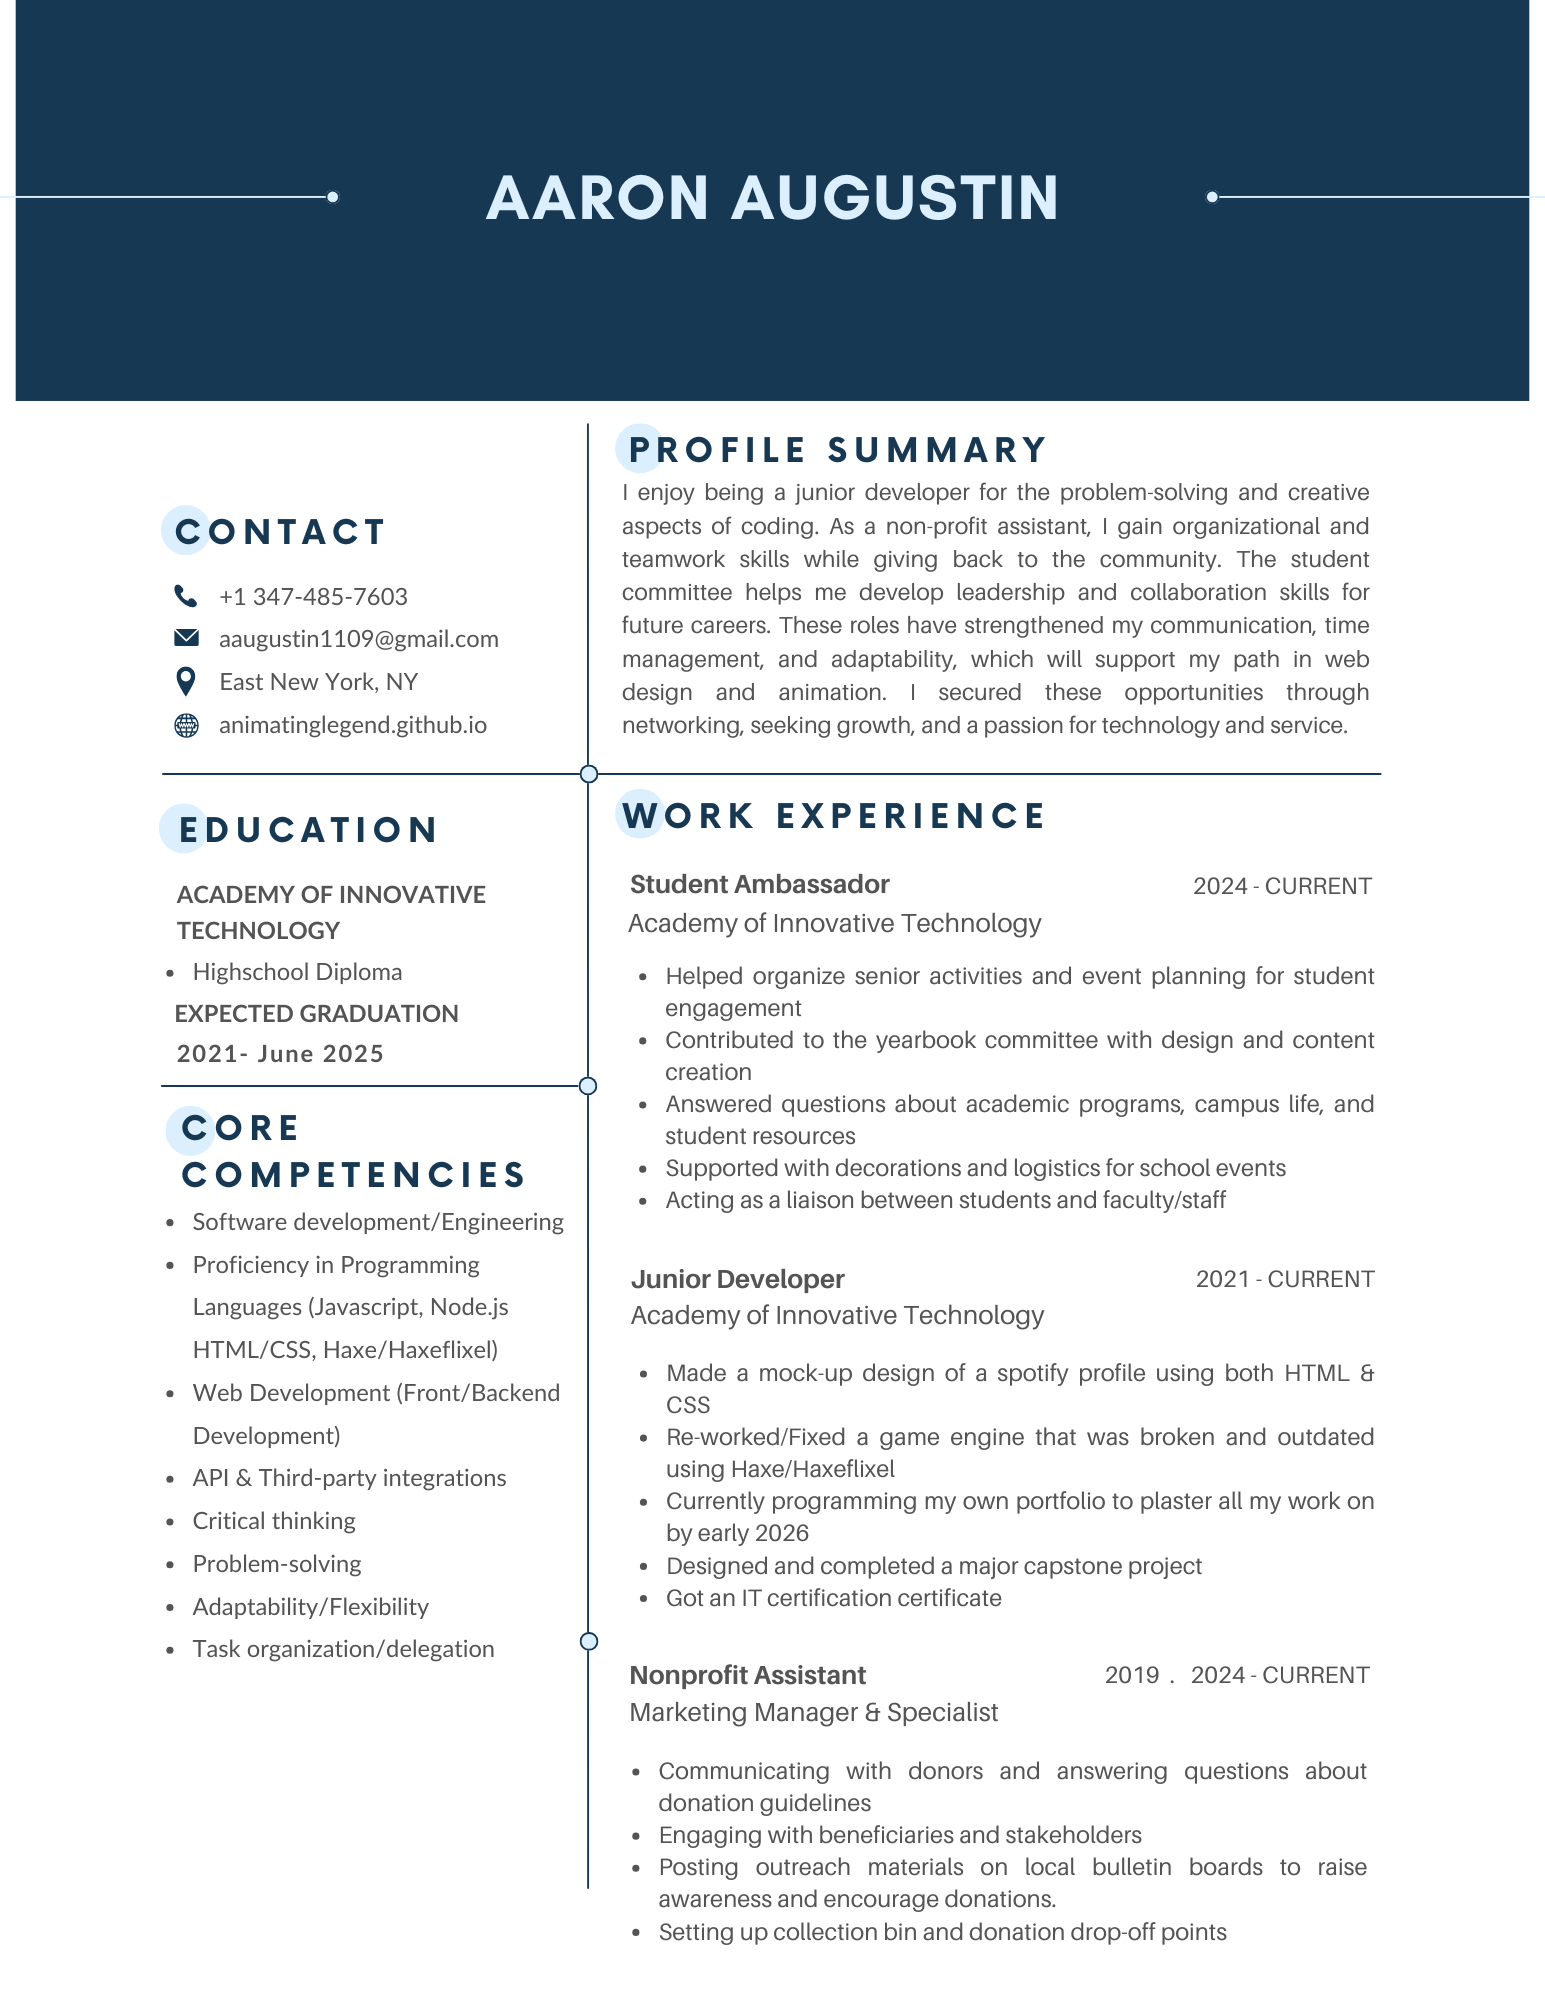
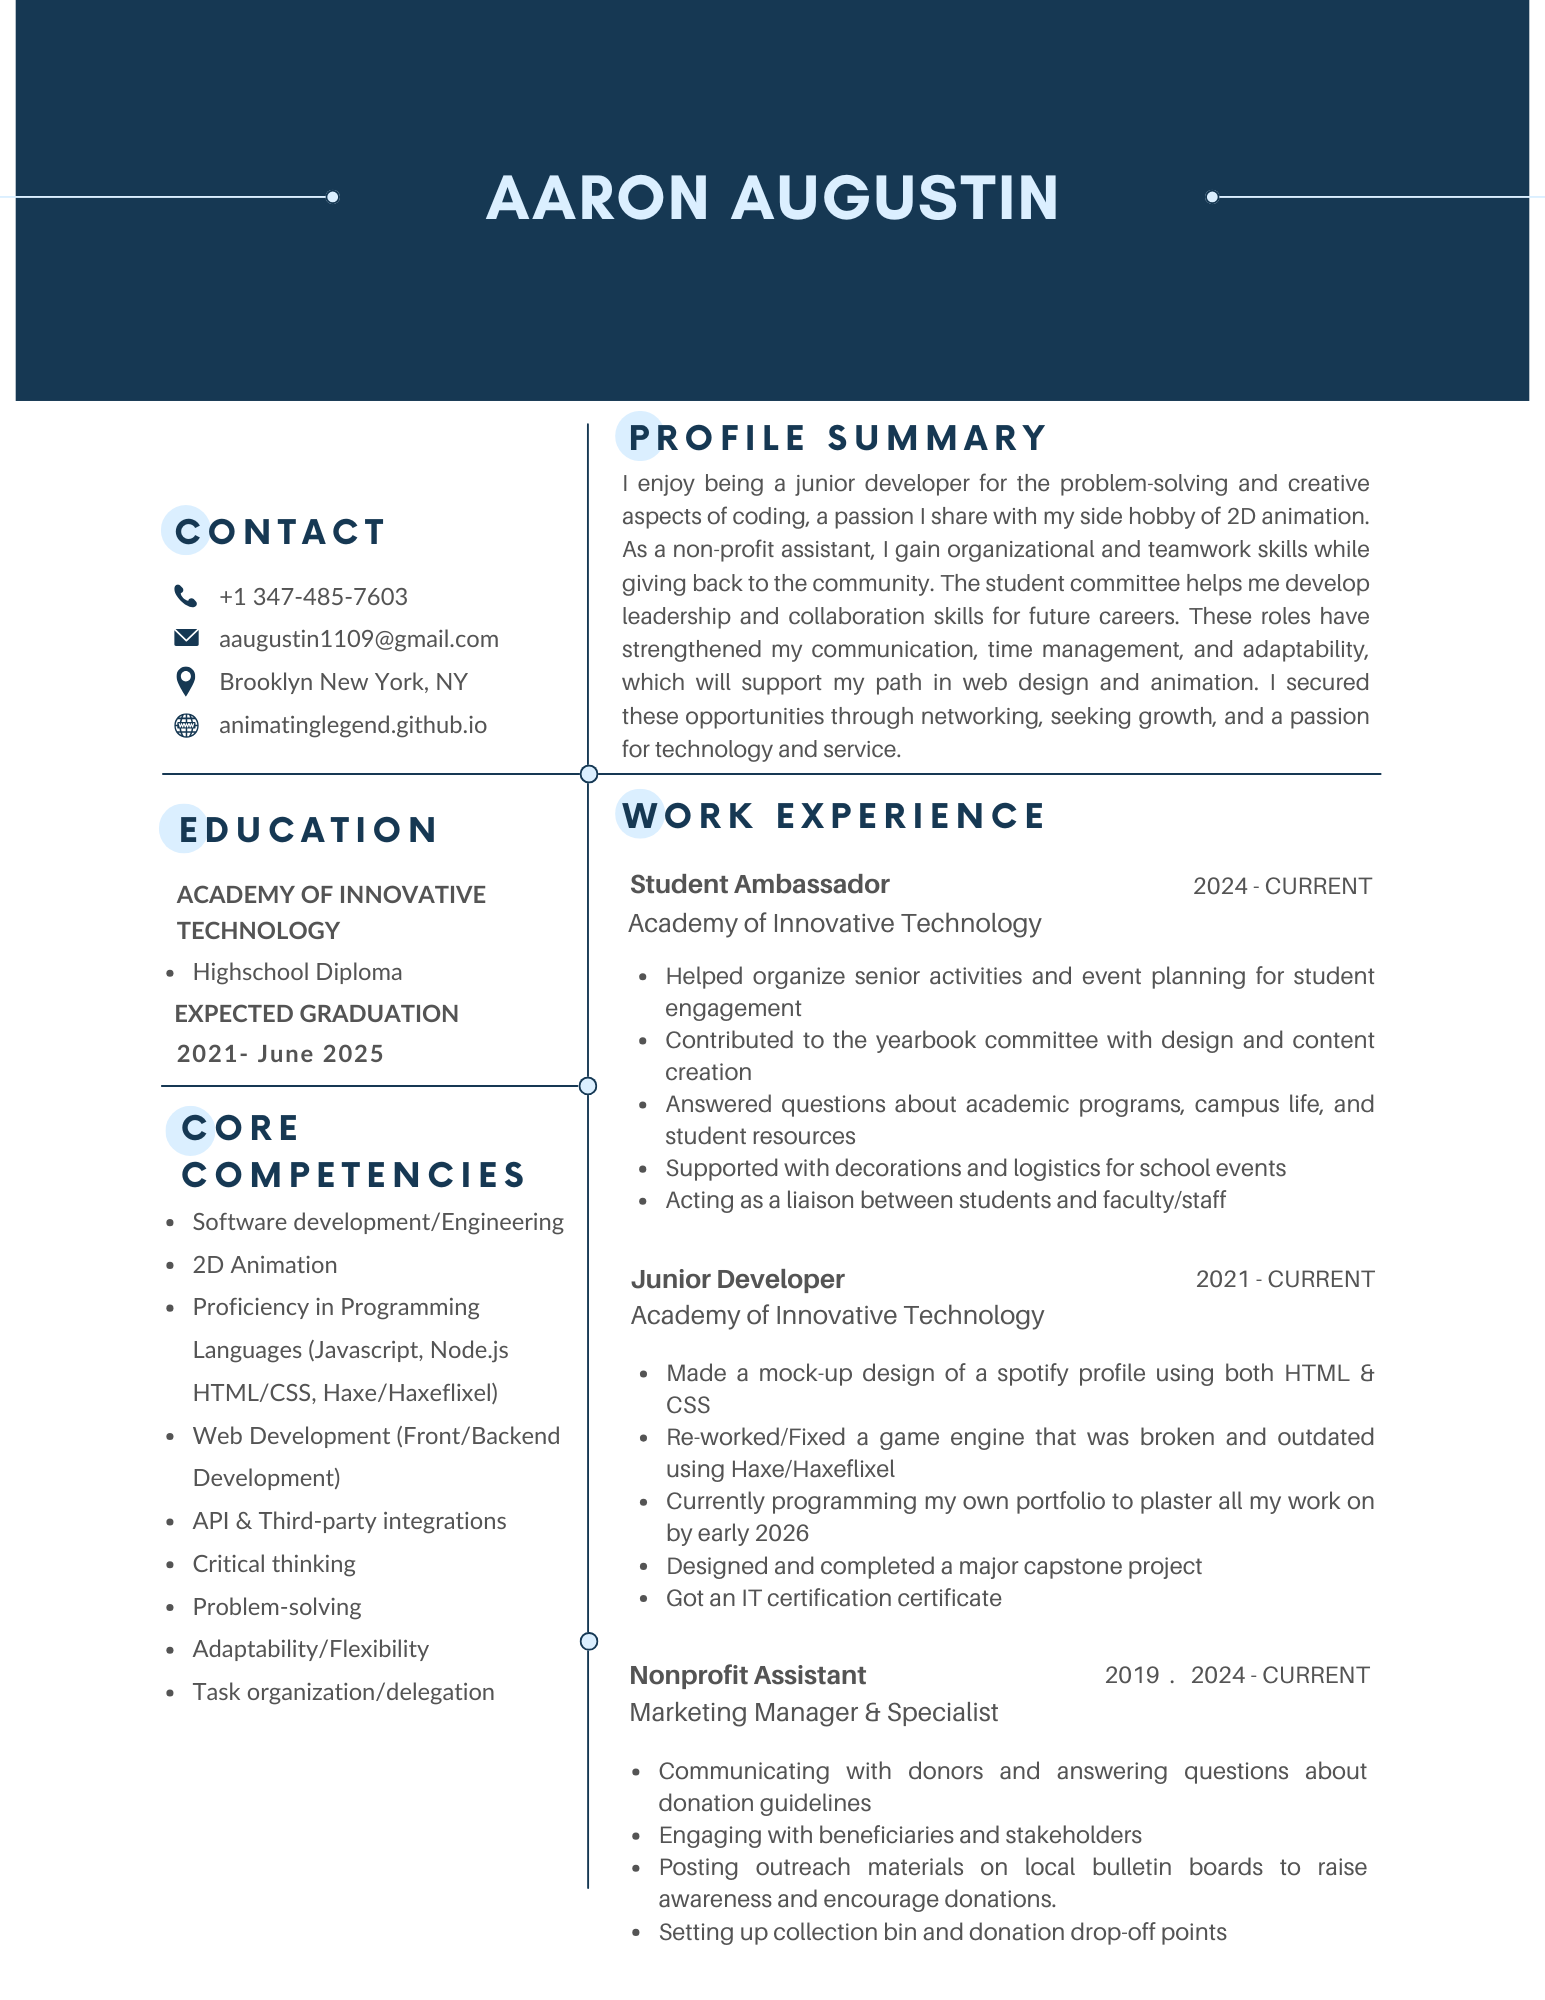
Animation section in progress

Changed region(s): [[0.4039, 0.186, 0.901, 0.403], [0.1243, 0.62, 0.3417, 0.868]]

diff --git a/docs/index.html b/docs/index.html
@@ -34,11 +34,13 @@
             
             <div class="yapping-column">
                 <!-- talk about my hobbies-->
-                <p>I'm a <strong>junior developer</strong> interested in <strong>coding, problem-solving, and web development.</strong>
-                    I have used <strong>JavaScript, Node.js, HTML/CSS, and Haxe/HaxeFlixel</strong> to develop projects like a Spotify profile mock-up and debug a game engine. 
+                <p>
+                    I'm a <strong>junior developer</strong> interested in <strong>coding, problem-solving, and web development.</strong>
+                    I have used <strong>JavaScript, Node.js, HTML/CSS, and Haxe/HaxeFlixel</strong> to develop projects like a <strong>Spotify profile mock-up and an optimized game engine.</strong>
+                    Additionally, I have a creative side, and occasionally dabble in 2D animation using <strong>Adobe Flash/Animate.</strong>
                     Through my work, I have developed skills in software development, <strong>front-end and back-end programming, and API integrations</strong>. 
                     I enjoy solving challenges, developing my coding skills further, and creating innovative solutions. 
-                    My goal is to continue growing as a developer and produce effective, well-designed digital experiences.
+                    My goal is to continue growing as a developer and animator and produce effective, well-designed digital experiences and art.
                 </p>
                 <br>
                 <!-- Contact / Resume Section -->
@@ -46,23 +48,23 @@
                 <br>
                 <!-- Mail -->
                 <p>Mail: 
-                    <strong><a href="mailto:aaugustin1109@gmail.com" class="link">aaugustin1109@gmail.com</a></strong>
+                    <strong><a title="Email" href="mailto:aaugustin1109@gmail.com" class="link">aaugustin1109@gmail.com</a></strong>
                 </p>
                 <!-- Instagram -->
                 <p>Instagram: 
-                    <strong><a href="https://www.instagram.com/animatinglegend/" target="_blank" class="link">https://www.instagram.com/animatinglegend/</a></strong>
+                    <strong><a title="Instagram" href="https://www.instagram.com/animatinglegend/" target="_blank" class="link">https://www.instagram.com/animatinglegend/</a></strong>
                 </p>
                 <!-- Twitter -->
                 <p>Twitter: 
-                    <strong><a href="https://x.com/AnimatingLegend" target="_blank" class="link">https://x.com/AnimatingLegend</a></strong>
+                    <strong><a title="Twitter / X" href="https://x.com/AnimatingLegend" target="_blank" class="link">https://x.com/AnimatingLegend</a></strong>
                 </p>
                 <!-- Newgrounds -->
                 <p>Newgrounds: 
-                    <strong><a href="https://animatinglegend.newgrounds.com" target="_blank" class="link">https://animatinglegend.newgrounds.com</a></strong>
+                    <strong><a title="Newgrounds" href="https://animatinglegend.newgrounds.com" target="_blank" class="link">https://animatinglegend.newgrounds.com</a></strong>
                 </p>
                 <!-- Github -->
                 <p>Github: 
-                    <strong><a href="https://github.com/AnimatingLegend" target="_blank" class="link">https://github.com/AnimatingLegend</a></strong>
+                    <strong><a title="Github" href="https://github.com/AnimatingLegend" target="_blank" class="link">https://github.com/AnimatingLegend</a></strong>
                 </p>
             </div>
 
@@ -70,13 +72,13 @@
             <br>
 
             <div class="resume-border">
-                <a title="Download File: Aaron_Augustin_CV.png" href="assets/images/Aaron_Augustin_CV.png" download="Aaron_Augustin_Resume">
+                <a title="Download File: Aaron_Augustin_CV.png" href="assets/images/Aaron_Augustin_CV.png" download="Aaron_Augustin_CV">
                     <img src="assets/images/icons/pdf-img.png" alt="pdf-icon" class="pdf-icon">
                 </a>
 
                 <p class="resume-title-text">Aaron_Augustin_CV.png</p>
 
-                <a title="Download File: Aaron_Augustin_CV.png" class="resume-link" href="assets/images/Aaron_Augustin_CV.png" download="Aaron_Augustin_Resume">
+                <a title="Download File: Aaron_Augustin_CV.png" class="resume-link" href="assets/images/Aaron_Augustin_CV.png" download="Aaron_Augustin_CV">
                     <p>Download File</p>
                 </a>
             </div>

diff --git a/docs/projects.html b/docs/projects.html
@@ -12,6 +12,14 @@
     <link rel="stylesheet" href="https://cdnjs.cloudflare.com/ajax/libs/font-awesome/4.7.0/css/font-awesome.min.css">
 </head>
 
+<!--
+                                -- TODO -- 
+
+- Make a section all about the drawings and animations ive done
+- Make the page a little less 'bland' and rearrange paragraphs and imgs
+
+-->
+
 <body>
      <!-- navagation bar -->
      <header>
